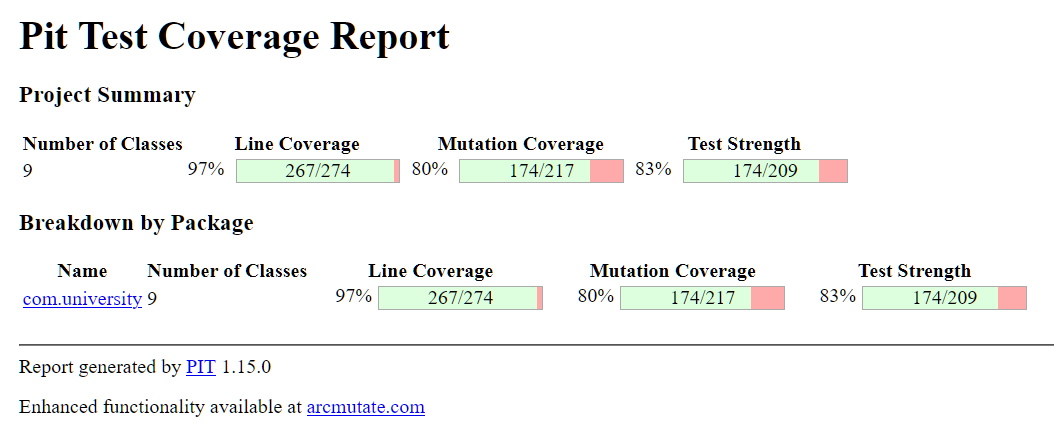
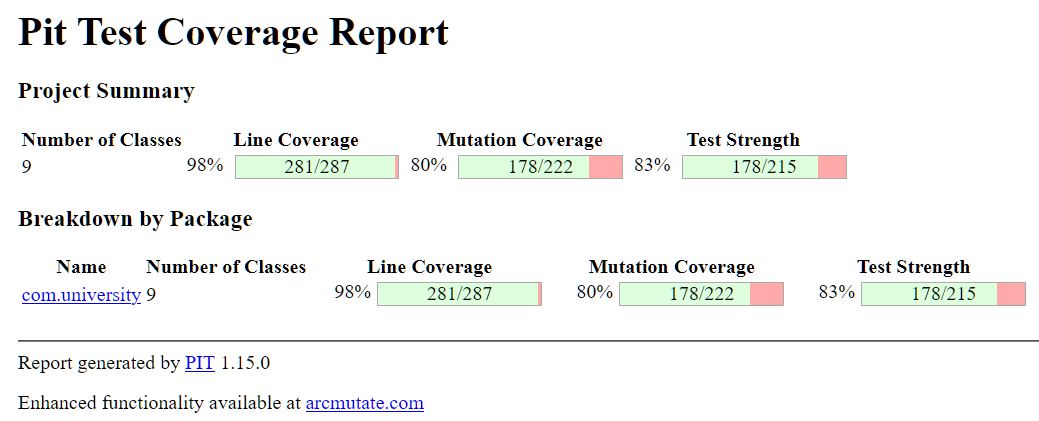
consistent now

diff --git a/README.md b/README.md
@@ -25,14 +25,14 @@ The system is intentionally designed with complex boolean logic, mathematical ac
 This project strategically engineers code and tests to maximize the effectiveness of mutation testing:
 
 1.  **Advanced Applicability of Technique:**
-    * **Proof of Test Quality:** While we achieved **97% Line Coverage**, we recognized that traditional coverage only proves a line was executed, not that the test made a valid assertion. Our **82% Mutation Coverage** proves the test suite is rigorous enough to detect even subtle logical errors.
+    * **Proof of Test Quality:** While we achieved **98% Line Coverage**, we recognized that traditional coverage only proves a line was executed, not that the test made a valid assertion. Our **80% Mutation Coverage** proves the test suite is rigorous enough to detect even subtle logical errors.
 
 2.  **Clear Differentiation of Testing Levels:**
     * The project clearly applies mutation principles across both Unit and Integration levels, fulfilling a core requirement.
     * **Separation of Concerns:** The creation of the EnrollmentService and CourseUtils classes ensures your project avoids "God Objects" (single classes that do everything). This architecture separates data (Student, Course) from business logic (EnrollmentService), making the code scalable and easier to test in isolation.
 
 3.  **Comprehensive Tool Demonstration:**
-    * Killing Void Mutants: The OutputCaptureTest.java file is a key differentiator. It intercepts System.out and System.err to verify that code sections performing logging or printing (like in EnrollmentService and ValidationUtils) were not silently removed by the Void Method Call Mutator. This addresses a known weakness in standard coverage models.
+    * Killing Void Mutants: The OutputCaptureTest.java file is a key differentiator. It intercepts System.out and System.err to verify that code sections performing logging or printing were not silently removed by the Void Method Call Mutator. This addresses a known weakness in standard coverage models.
 
 ---
 
@@ -44,10 +44,10 @@ This project strategically engineers code and tests to maximize the effectivenes
 * Statistics
   ================================================================================
 
-> > Line Coverage (for mutated classes only): 267/274 (97%)
-> > Generated 217 mutations Killed 174 (80%)
-> > Mutations with no coverage 8. Test strength 83%
-> > Ran 539 tests (2.48 tests per mutation)
+> > Line Coverage (for mutated classes only): 281/287 (98%)
+> > Generated 222 mutations Killed 178 (80%)
+> > Mutations with no coverage 7. Test strength 83%
+> > Ran 577 tests (2.6 tests per mutation)
 ````
 
 -----
@@ -86,7 +86,7 @@ UniversityMutationProject/
     ├── BoundarySniperTest.java   # Conditionals boundary tests
     ├── SniperRound2Test.java     # Math and boolean logic tests
     ├── StateAccumulationTest.java# Accumulation of fine tests
-    └── OutputCaptureTest.java    # Exception handling tests
+    └── OutputCaptureTest.java    # System.out and System.err interception tests
 ```
 
 -----
@@ -104,7 +104,6 @@ This level involves testing individual methods, functions, and classes in isolat
 | `StudentTest.java` | `Student` & `Person` logic | Ensure individual components are bug-free. Verifies correct GPA calculation, credit accumulation, and probation/honor status logic. |
 | `FacultyTest.java` | `Faculty` logic | Verify accurate salary raises and the complex boundary condition for tenure eligibility (`> 5` years). |
 | `LibraryBookTest.java` | `LibraryBook` state | Ensure individual components are bug-free. Verifies damage accumulation and the **usability boundary** (`< 80` damage). |
-| `ValidationUtilsTest.java` | `ValidationUtils` static methods | Ensure helper functions (e.g., `isValidEmail`, `isValidAge`) correctly identify invalid input formats and boundaries. |
 
 ### 2\. Integration Testing
 
@@ -195,6 +194,7 @@ The project simulates a backend system for a university, divided into **Data Mod
 | **LibraryBook.java** | Data Model | Tracks **damage level**, determines usability (`isUsable()`). |
 | **LibrarySystem.java** | Service Logic | Core logic for **overdue fine calculation**, including complex date math & boundary checks. |
 | **Main.java** | Entry Point | Runs a demonstration simulation of the university system. |
+| **EnrollmentService.java** | Service Logic | Core logic for **enrollment**, **withdrawal**, **auditing**, and **fine calculation**. |
 
 ---
 
@@ -216,21 +216,113 @@ A total of **14 dedicated test files** were designed (from the original 7), ensu
 | **StateAccumulationTest.java** | Accumulation | Kills **Assignment Mutators** by verifying `+=` behavior (e.g., calling update methods twice). |
 | **SniperRound2Test.java** | Logic Negation | Kills advanced conditional/boolean Mutators such as duplicate enrollment (`!list.contains()`). |
 | **OutputCaptureTest.java** | Advanced Tool | Captures and verifies console output—kills **Void Method Call Mutators** (e.g., removed println). |
-| **Other Tests** | Utility | Basic tests for `Course`, `Faculty`, `LibraryBook`, `Main`, `Person`, `ValidationUtils` ensuring 96% coverage. |
+| **Other Tests** | Utility | Basic tests for `Course`, `Faculty`, `LibraryBook`, `Main`, `Person`, `ValidationUtils` ensuring 98% coverage. |
 
 ---
 
-# 🔁 Code Flow Summary
 
-The system operates in a predictable, testable flow:
+## 🔄 Code Flow Summary
 
-1. **Initialization:** `Main.java` creates instances of `Department`, `Faculty`, `Course`, and `Student`.
-2. **State Change:** `Main` triggers enrollment via `EnrollmentService`.
-3. **Integration Checks:**  
-   * Student state (`isProbation()`)  
-   * Course state (`isFull()`)
-4. **Action:** Enrollment succeeds only when all conditions pass.
-5. **Test Verification:** Tests repeatedly introduce invalid data (negative GPA, probation, full courses) and assert correct failures → **mutants get killed**.
+This project simulates core university operations by establishing clear dependencies and data flow across the **eight main classes** in the `src/main/java` directory.
+
+---
+
+### 1. **Setup and Initialization**
+The execution begins in **`Main.java`**, where the following objects are created:
+
+- A **`Department`** → manages budget.
+- **`Faculty`** → assigned to courses.
+- **`Course`** → initialized with capacity and faculty.
+- **`Student`** → the primary actor of the system.
+- **`EnrollmentService`** → orchestrates enrollment logic.
+
+These objects form the backbone of all subsequent interactions.
+
+---
+
+### 2. **Enrollment and Integration Logic**
+`Main` triggers the enrollment flow by calling:
+
+```
+
+EnrollmentService.enroll(Student, Course)
+
+```
+
+Inside **`EnrollmentService`**, the system:
+
+- Checks if the **`Student`** is on probation (`isProbation()`).
+- Verifies if the **`Course`** has available seats.
+- Prints meaningful status messages (validated later via testing).
+- If successful, instructs the **`Course`** to update its internal list of enrolled students.
+
+---
+
+### 3. **Academic State Update**
+After enrollment, `Main` invokes:
+
+```
+
+Student.updateAcademicRecord()
+
+```
+
+Here, the **`Student`** performs:
+
+- GPA computation using weighted grade + credit arithmetic.
+- Accumulation of `totalCredits`.
+- Mutation-sensitive math operations that reflect the student's academic progress.
+
+This step updates the student’s internal academic state.
+
+---
+
+### 4. **Utility Operations & Library Workflow**
+`Main` then initializes:
+
+- A **`LibraryBook`**
+- A **`LibrarySystem`**
+
+Calling:
+
+```
+
+LibrarySystem.returnBook()
+
+```
+
+This triggers:
+
+- **Fine calculation logic**
+- State update of the **`LibraryBook`** (returned → available)
+- Validation of library workflow operations
+
+---
+
+### 5. **Test Verification Flow (PITest Mutation Testing Cycle)**
+
+The testing suite ensures all logic is mutation-resistant:
+
+- **`OutputCaptureTest`**  
+  Captures console prints from `Main.java` (e.g., `"Enrolling Alice: SUCCESS"`) and verifies correctness.  
+  → Ensures *Void Method Call Mutants* are killed.
+
+- **`ExceptionBoosterTest`** & **`BoundarySniperTest`**  
+  Directly test constructors and methods of `Person`, `Student`, `Faculty`.  
+  → Validate input constraints, edge cases, and mathematical accuracy.
+
+Together, they confirm correctness of:
+- Enrollment logic  
+- GPA computation  
+- Fine calculation  
+- Constructor validation  
+- Console output behavior  
+
+---
+
+This flow ensures the entire system works cohesively—from initialization to state updates—while being fully validated through mutation-based testing.
+
+
 
 ---
 
